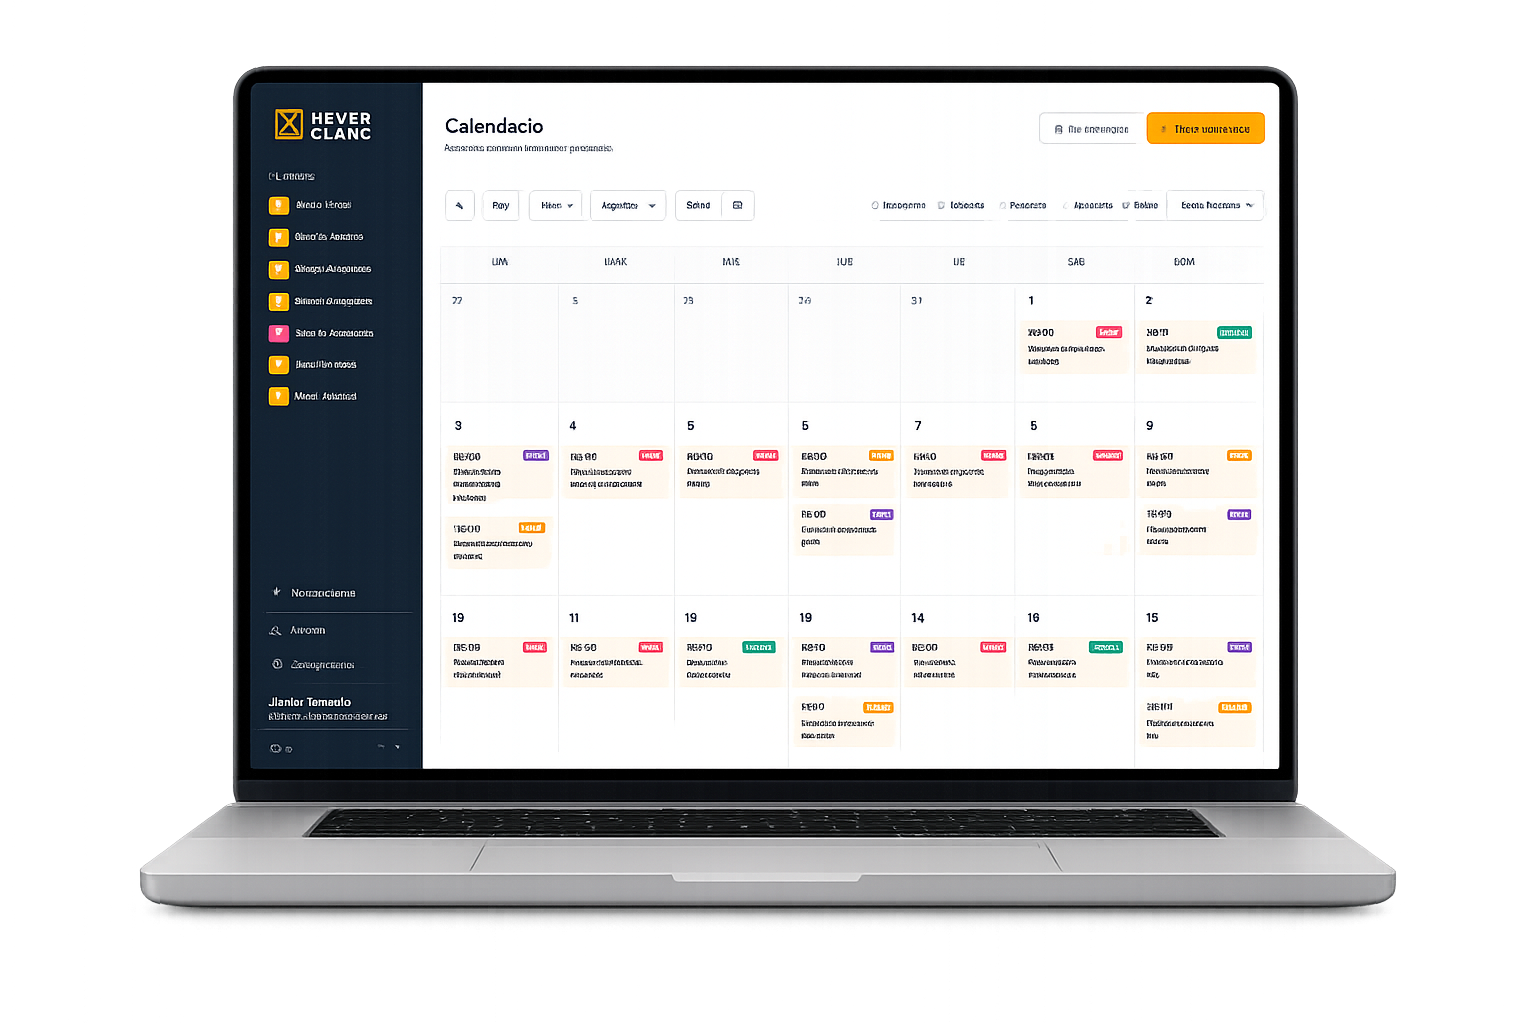
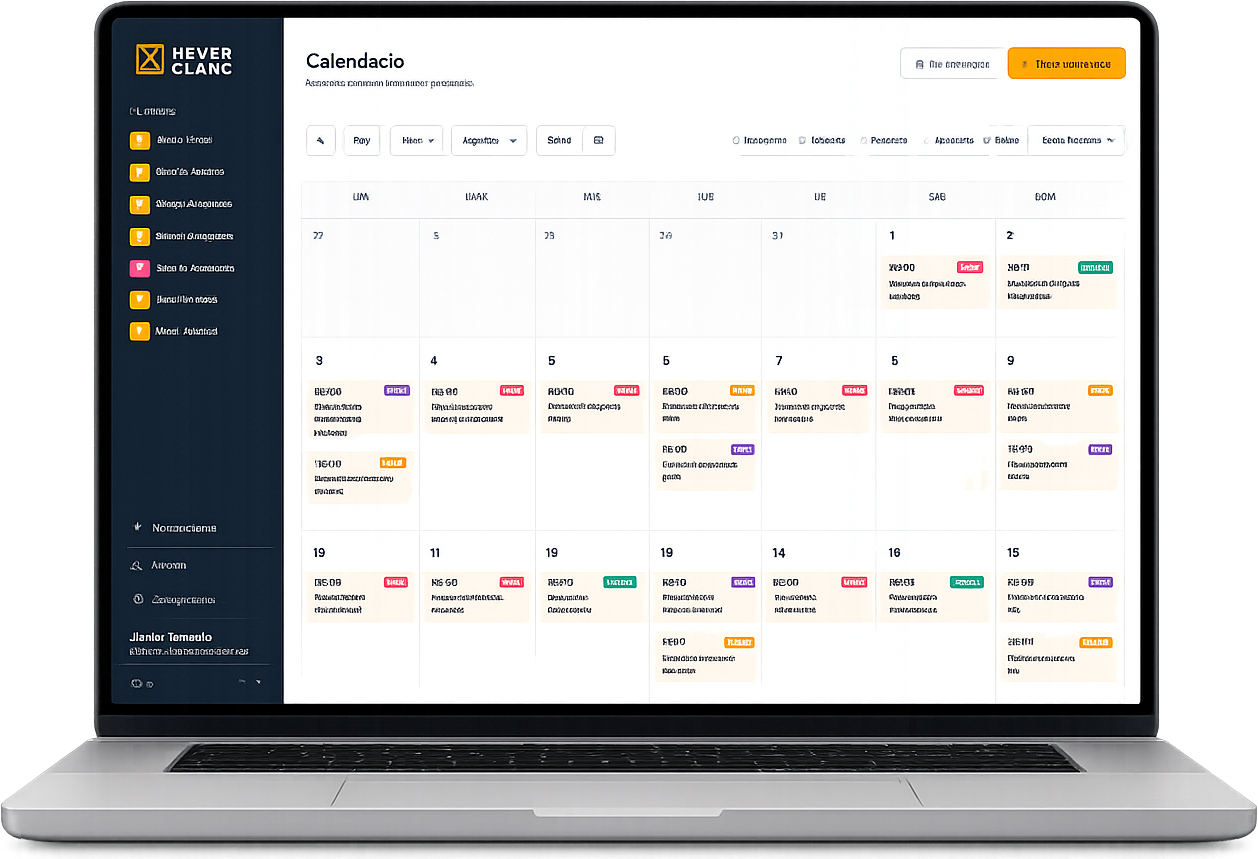
Ajustes visuales: ProductShowcase, servicios, footer, precios

diff --git a/src/data/site.ts b/src/data/site.ts
@@ -115,9 +115,9 @@ export const services: Service[] = [
     description:
       "Reúne público objetivo, propuesta de valor, competencia y tono de marca en un solo lugar y genera la estrategia de cada cliente con IA.",
     paragraphs: [
-      "Cada cliente necesita una estrategia adaptada a su negocio. En NeverBlanc puedes reunir en un único lugar toda la información necesaria para definirla: público objetivo, propuesta de valor, servicios, competencia, tono de comunicación, palabras clave, hashtags y plataformas recomendadas.",
-      "Completa un cuestionario y utiliza la inteligencia artificial para generar o resumir la estrategia del cliente. Después podrás revisarla, modificarla y mantenerla actualizada directamente desde la plataforma.",
-      "Así, cada publicación parte de una dirección clara y coherente con la identidad, los objetivos y el público de la marca.",
+      "Antes, la estrategia de cada cliente se quedaba en un documento que nadie volvía a abrir. NeverBlanc la convierte en un perfil vivo: público objetivo, propuesta de valor, competencia, tono de comunicación, palabras clave y plataformas recomendadas, todo en un mismo lugar y siempre a mano.",
+      "El proceso es simple: completas un cuestionario guiado, la IA genera o resume la estrategia a partir de esas respuestas y tú la revisas y ajustas hasta que refleje al cliente. Queda guardada y editable, sin volver a empezar de cero en cada reunión.",
+      "El resultado: cada publicación que generes después parte de esa misma dirección, sin perder tiempo explicando otra vez quién es el cliente o qué quiere transmitir.",
     ],
   },
   {
@@ -134,9 +134,9 @@ export const services: Service[] = [
     description:
       "Convierte la estrategia de cada cliente en un calendario de contenido completo generado con inteligencia artificial.",
     paragraphs: [
-      "Convierte la estrategia de cada cliente en un calendario de contenido completo. NeverBlanc genera mediante inteligencia artificial publicaciones adaptadas a la marca, las plataformas seleccionadas y el periodo que necesites.",
-      "Cada publicación puede incluir el título, el copy final, el texto que aparecerá dentro del diseño o de cada diapositiva, la estrategia de hashtags y una idea visual para crear la pieza.",
-      "Revisa el contenido desde el calendario, edítalo directamente, reorganiza las publicaciones y trabaja con formatos como posts, carruseles, reels, stories, vídeos, hilos o artículos.",
+      "Antes, cada publicación salía de un prompt suelto copiado y pegado en una IA sin memoria del cliente. NeverBlanc parte de la estrategia que ya tienes guardada y genera un calendario de contenido completo, coherente con la marca y las plataformas de cada cliente.",
+      "El proceso: eliges el periodo que necesitas, pulsas generar y la IA crea las publicaciones con título, copy, texto para el diseño (por diapositiva si es carrusel), hashtags e idea visual. Tú revisas, editas o regeneras lo que no encaje, directamente desde el calendario.",
+      "Trabajas con posts, carruseles, reels, stories, vídeos, hilos o artículos según la plataforma, y pasas de una página en blanco a un mes de contenido en minutos, no en días.",
     ],
   },
   {
@@ -153,9 +153,9 @@ export const services: Service[] = [
     description:
       "Centraliza clientes, estrategias y calendarios para que todo el equipo trabaje sobre la misma planificación.",
     paragraphs: [
-      "Centraliza el trabajo de tu agencia y evita que la información quede repartida entre hojas de cálculo, documentos y conversaciones de WhatsApp.",
-      "NeverBlanc permite que varios miembros trabajen sobre los mismos clientes, estrategias y calendarios. Todo el equipo puede consultar la planificación, revisar publicaciones y mantener un flujo de trabajo compartido.",
-      "Controla el estado de cada contenido mediante las fases Pendiente, Aprobado y Publicado, para que todos sepan qué está preparado, qué necesita revisión y qué trabajo ya se ha completado.",
+      "Antes, la información de cada cliente se repartía entre hojas de cálculo, documentos y chats de WhatsApp, y cada persona tenía su propia versión. NeverBlanc centraliza clientes, estrategias y calendarios en un único sitio, con roles de agencia para cada miembro del equipo.",
+      "El proceso: cualquier persona del equipo entra, ve los mismos clientes y el mismo calendario, y trabaja sobre publicaciones que pasan por tres fases (pendiente, aprobado y publicado) antes de salir.",
+      "Así siempre queda claro qué está listo, qué necesita revisión y qué ya se ha publicado, sin depender de quién se acuerde de avisar al resto.",
     ],
   },
 ];

diff --git a/src/styles/global.css b/src/styles/global.css
@@ -19,6 +19,11 @@
   --font-sans: "Inter", sans-serif;
 }
 
+html,
+body {
+  overflow-x: hidden;
+}
+
 body {
   background-color: var(--color-brand-bg);
   color: var(--color-brand-navy);
